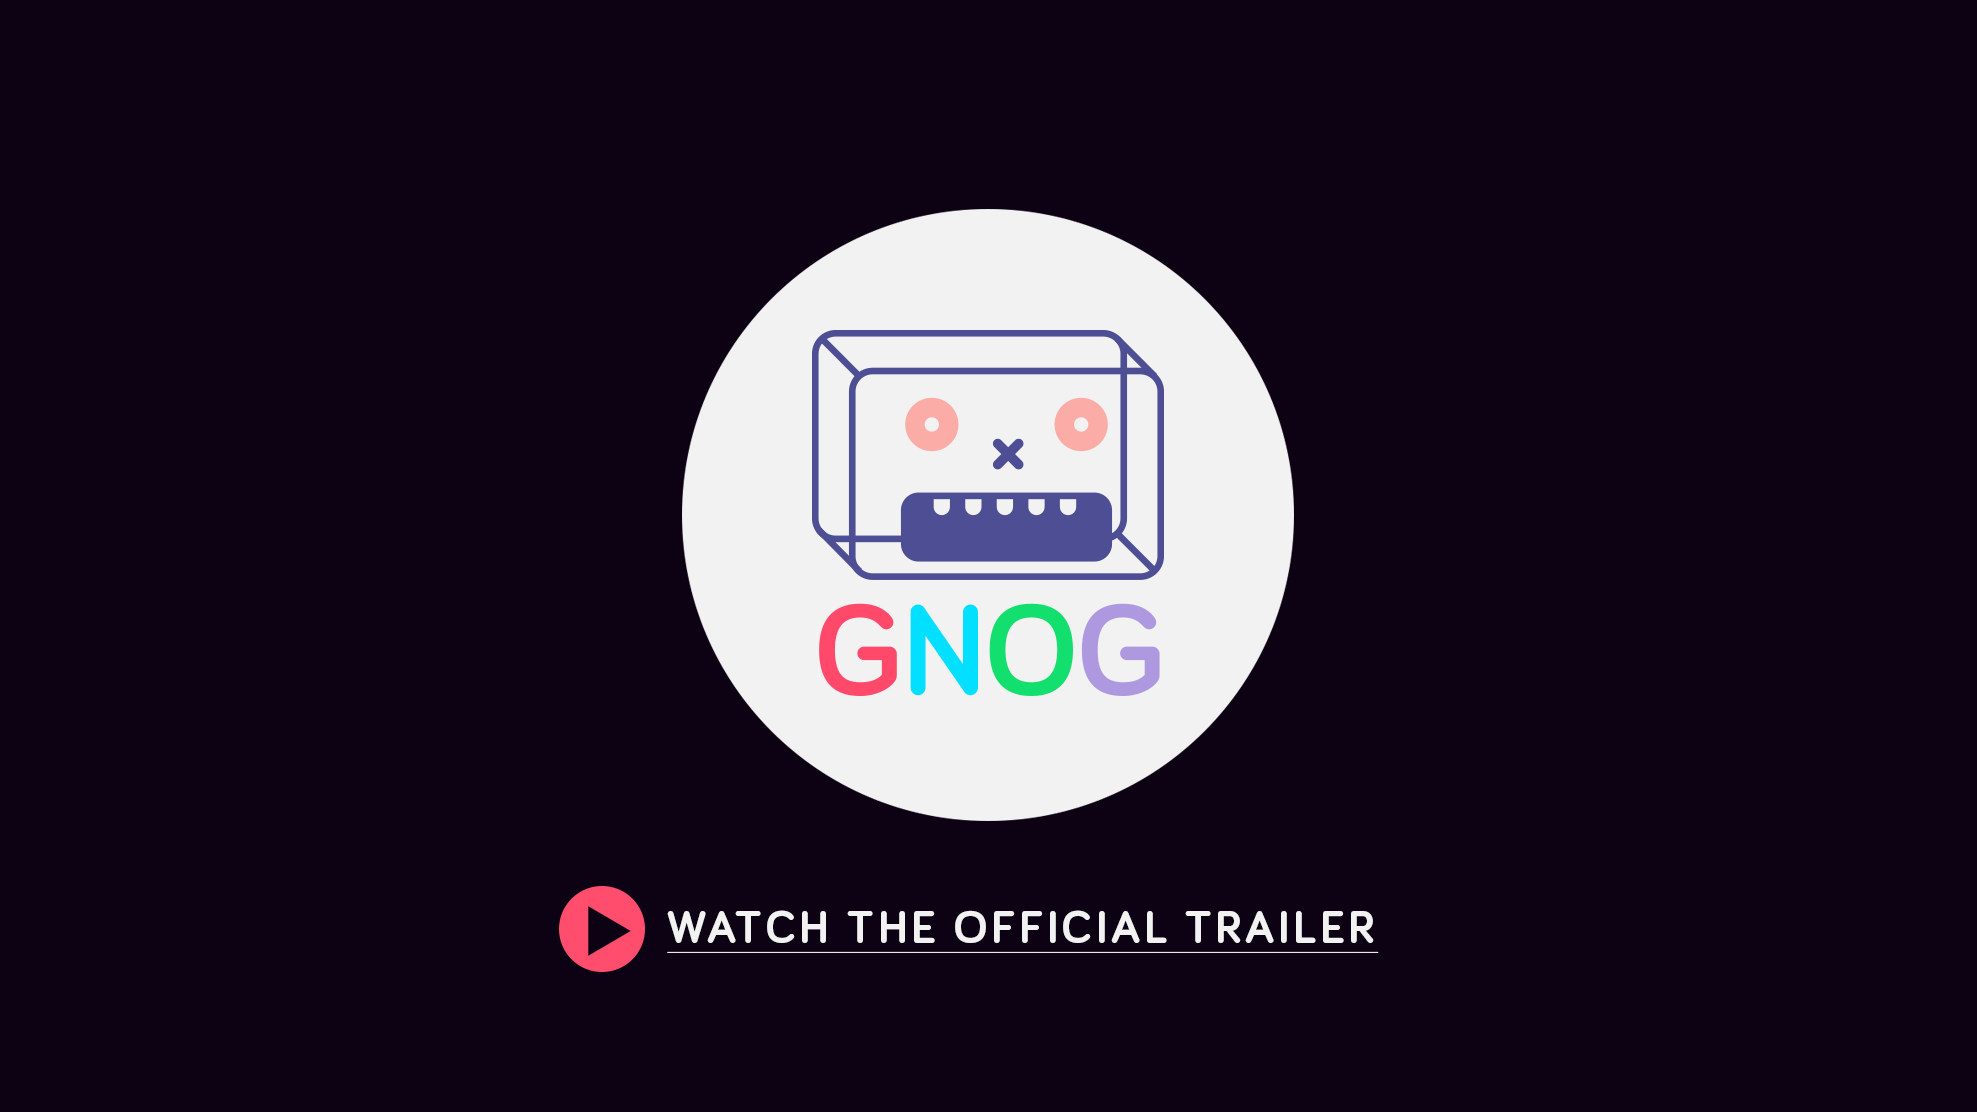
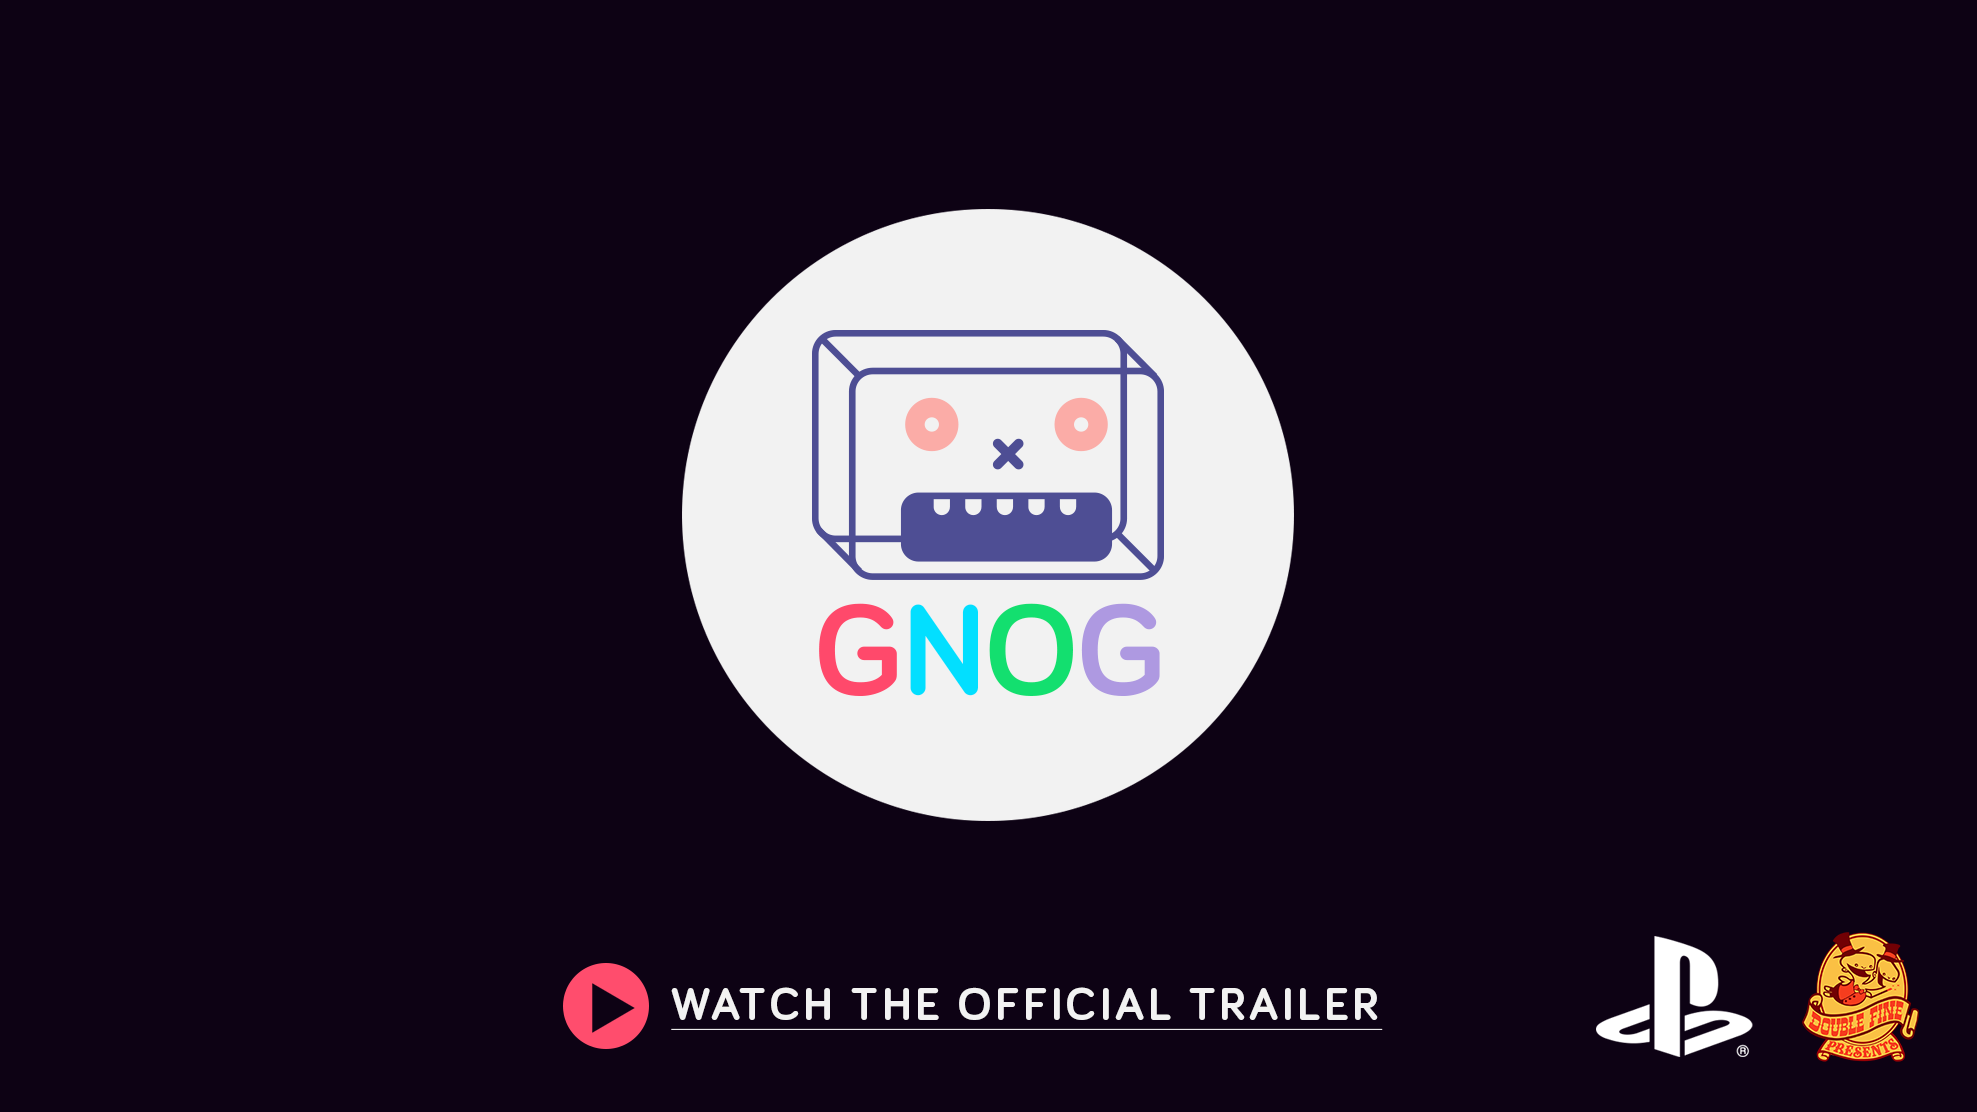
updated gnog header

Changed region(s): [[0.2777, 0.795, 0.7097, 0.9478], [0.8022, 0.8255, 0.9874, 0.9784]]

diff --git a/index.html b/index.html
@@ -104,11 +104,16 @@
            <iframe id="iframe" src="//www.youtube.com/embed/lzTWg0sGVh4?autoplay=0&showinfo=0&controls=2&rel=0" frameborder="0" allowscriptaccess="always" allowfullscreen="true"></iframe>
            </div>
       </div>
+        <div class="col-xs-12 bottom-med-spacer" align="center">
+          <p class="h1 text-center"><span id="one">G</span><span id="two">N</span><span id="three">O</span><span id="four">G</span> is Launching on Playstation</p>
+        <p class="h2">Coming 2016</p>
+         <img src="/images/may2015/awards3yellow.png" width="900px" class="top-med-spacer img-responsive hidden-xs">
+      </div>
   </div>
 </div>
 
 <!-- intro text -->
-<div class="intro">
+<!-- <div class="intro">
   <div class="container">
     <div class="row top-small-spacer bottom-small-spacer">
        <div class="col-xs-12 bottom-med-spacer" align="center">
@@ -119,7 +124,7 @@
     </div>
   </div>
 </div>
-
+ -->
 
 <!-- Top Description -->
 <div class="monsters hidden-xs">

diff --git a/public/sass/_gnog-home.scss b/public/sass/_gnog-home.scss
@@ -1,6 +1,6 @@
 $header-font: "Bariol Big", Sans-Serif;
 $header2-font: "Bariol Light", Sans-Serif;
-$header-image: url('/images/may2015/secondSection.png');
+$header-image: url('/images/may2015/secondSection-blur.png');
 $monsters-text: #e092ff;
 $body-font: "Bariol Big";
 $header-bg-color: #1d092a;

diff --git a/public/css/main.css b/public/css/main.css
@@ -173,7 +173,7 @@ a {
 
 .header {
   background-color: #1d092a;
-  background-image: url("/images/may2015/secondSection.png");
+  background-image: url("/images/may2015/secondSection-blur.png");
   background-position: 50% 0%;
   background-size: cover;
   background-repeat: no-repeat;
